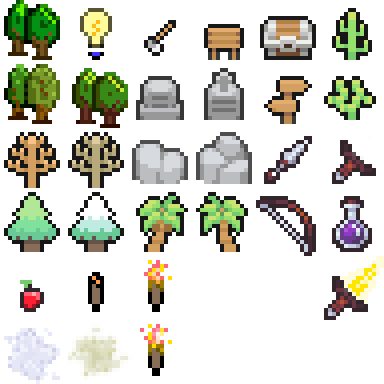
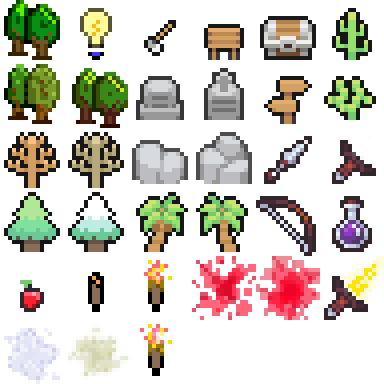
stains

Changed region(s): [[0.5, 0.6562, 0.8438, 0.8438]]

diff --git a/src/main/kotlin/world/Level.kt b/src/main/kotlin/world/Level.kt
@@ -22,6 +22,7 @@ import ui.modals.ContextMenu
 import ui.modals.ExamineModal
 import ui.panels.Console
 import util.*
+import world.stains.Stain
 import world.terrains.Terrain
 import kotlin.coroutines.coroutineContext
 
@@ -72,6 +73,7 @@ sealed class Level {
         doOverlap: (x: Int, y: Int, vis: Float, glyph: Glyph, edge: XY, light: LightColor) -> Unit,
         doOcclude: (x: Int, y: Int, edge: XY) -> Unit,
         doSurf: (x: Int, y: Int, vis: Float, light: LightColor, edge: XY) -> Unit,
+        doStain: (x: Int, y: Int, stain: Stain, light: LightColor) -> Unit,
         delta: Float
     ) {
         for (x in pov.x - Screen.renderTilesWide /2 until pov.x + Screen.renderTilesWide /2) {
@@ -80,13 +82,16 @@ sealed class Level {
                 val terrain = Terrain.get(getTerrain(x,y))
                 val glyph = terrain.glyph()
                 val holder = tileSet.tileHolders[glyph]
-                val light = if (vis == 1f) lightAt(x, y) else Screen.halfLight
                 if (vis > 0f) {
-                    thingsAt(x,y).forEach { it.onRender(delta) }
-                    actorAt(x,y)?.onRender(delta)
+                    val light = if (vis == 1f) lightAt(x, y) else Screen.halfLight
                     doTile(
                         x, y, vis, glyph, light
                     )
+                    if (vis == 1f) {
+                        thingsAt(x,y).forEach { it.onRender(delta) }
+                        actorAt(x,y)?.onRender(delta)
+                        stainAt(x,y)?.also { doStain(x, y, it, light) }
+                    }
                     // Ground overlaps
                     if (holder is OverlapTile) {
                         CARDINALS.forEach { edge ->
@@ -246,6 +251,8 @@ sealed class Level {
 
     fun thingsAt(x: Int, y: Int): MutableList<Thing> = chunkAt(x,y)?.thingsAt(x,y) ?: noThing
 
+    fun stainAt(x: Int, y: Int): Stain? = chunkAt(x,y)?.stainAt(x,y)
+
     fun cellContainerAt(x: Int, y: Int) = chunkAt(x,y)?.cellContainerAt(x,y) ?: throw RuntimeException("no cell container for $x $y")
 
     fun onAddThing(x: Int, y: Int, thing: Thing) = chunkAt(x,y)?.onAddThing(x, y, thing)
@@ -277,6 +284,8 @@ sealed class Level {
     fun isOpaqueAt(x: Int, y: Int) = chunkAt(x,y)?.isOpaqueAt(x,y) ?: true
 
     fun addSpark(spark: Spark) = chunkAt(spark.xy.x, spark.xy.y)?.addSpark(spark)
+
+    fun addStain(stain: Stain, x: Int, y: Int) = chunkAt(x,y)?.addStain(stain, x, y)
 
     fun onRender(delta: Float) {
         if (dirtyLights.isNotEmpty()) {

diff --git a/src/main/kotlin/render/Screen.kt b/src/main/kotlin/render/Screen.kt
@@ -23,6 +23,7 @@ import ui.panels.ActorPanel
 import util.*
 import world.LevelKeeper
 import world.WorldLevel
+import world.stains.Stain
 import java.lang.Double.max
 import java.lang.Double.min
 import kotlin.math.abs
@@ -35,7 +36,7 @@ object Screen : KtxScreen {
     var worldZoom = 1.3
     var cameraSlack = 0.3
     var cameraMenuShift = 0.8
-    private const val CAMERA_MAX_JERK = 0.4
+    private const val CAMERA_MAX_JERK = 0.7
     private const val ZOOM_SPEED = 4.0
     private const val MAX_RENDER_WIDTH = 150
     private const val MAX_RENDER_HEIGHT = 120
@@ -202,6 +203,14 @@ object Screen : KtxScreen {
         )
     }
 
+    private val renderStain: (Int, Int, Stain, LightColor)->Unit = { tx, ty, stain, light ->
+        thingBatch.addTileQuad(
+            tx, ty,
+            thingBatch.getTextureIndex(stain.glyph(), App.level, tx, ty), 1f, light,
+            offsetX = stain.offsetX(), offsetY = stain.offsetY(), scale = stain.scale().toDouble(), alpha = stain.alpha()
+        )
+    }
+
     private val renderThing: (Int, Int, Float, Glyph)->Unit = { tx, ty, vis, glyph ->
         val lx = tx - pov.x + renderTilesWide
         val ly = ty - pov.y + renderTilesHigh
@@ -228,7 +237,8 @@ object Screen : KtxScreen {
         }
     }
 
-    private val renderSpark: (Int, Int, Glyph, LightColor, Float, Float, Float, Float)->Unit = { tx, ty, glyph, light, offsetX, offsetY, scale, alpha ->
+    private val renderSpark: (Int, Int, Glyph, LightColor, Float, Float, Float, Float)->Unit =
+        { tx, ty, glyph, light, offsetX, offsetY, scale, alpha ->
         worldBatches.firstOrNull { it.tileSet.hasGlyph(glyph) }?.also { batch ->
             batch.addTileQuad(
                 tx, ty,
@@ -533,6 +543,7 @@ object Screen : KtxScreen {
             doOverlap = renderOverlap,
             doOcclude = renderOcclude,
             doSurf = renderSurf,
+            doStain = renderStain,
             delta = delta
         )
         if (terrainBatch.vertexCount < 1) { log.debug("Davey!  terrainBatch had 0 vertices") }

diff --git a/src/main/kotlin/world/CellContainer.kt b/src/main/kotlin/world/CellContainer.kt
@@ -7,7 +7,9 @@ import things.Temporal
 import things.Thing
 import things.ThingHolder
 import util.XY
+import util.hasOneWhere
 import util.log
+import world.stains.Stain
 
 @Serializable
 class CellContainer : ThingHolder {
@@ -15,6 +17,7 @@ class CellContainer : ThingHolder {
     @Transient override var level: Level? = null
     val xy = XY(0,0)
     val contents = mutableListOf<Thing>()
+    val stains = mutableListOf<Stain>()
 
     override fun xy() = xy
     override fun contents() = contents
@@ -26,6 +29,10 @@ class CellContainer : ThingHolder {
         contents.forEach { thing ->
             thing.onRestore(this)
             if (thing is Temporal) level.linkTemporal(thing)
+        }
+        stains.forEach { stain ->
+            stain.holder = this
+            level.linkTemporal(stain)
         }
     }
 
@@ -45,5 +52,21 @@ class CellContainer : ThingHolder {
         contents.remove(thing)
         level?.onRemoveThing(xy.x, xy.y, thing)
     }
+
+    fun addStain(stain: Stain) {
+        stains.firstOrNull { it.stackType() == stain.stackType() }?.also { oldStain ->
+            oldStain.stackWith(stain)
+        } ?: run {
+            stain.holder = this
+            stains.add(stain)
+            level?.linkTemporal(stain)
+        }
+    }
+
+    fun expireStain(stain: Stain) {
+        stains.remove(stain)
+    }
+
+    fun topStain() = if (stains.isNotEmpty()) stains.last() else null
 
 }

diff --git a/src/main/kotlin/actors/Actor.kt b/src/main/kotlin/actors/Actor.kt
@@ -13,6 +13,7 @@ import things.*
 import util.*
 import world.Entity
 import world.Level
+import world.stains.Blood
 import java.lang.Integer.min
 
 @Serializable
@@ -42,6 +43,8 @@ sealed class Actor : Entity, ThingHolder, LightSource, Temporal {
 
     open fun speed() = 1f
     open fun visualRange() = 22f
+
+    open fun bleedChance() = 0.6f
 
     override fun level() = level
     override fun xy() = xy
@@ -76,7 +79,14 @@ sealed class Actor : Entity, ThingHolder, LightSource, Temporal {
 
     open fun statusGlyph(): Glyph? = null
 
-    open fun receiveAttack(attacker: Actor) { }
+    open fun receiveAttack(attacker: Actor) {
+        if (Dice.chance(bleedChance())) {
+            level?.addStain(Blood(), xy.x, xy.y)
+            if (Dice.chance(0.4f)) {
+                level?.addStain(Blood(), xy.x - 1 + Dice.zeroTo(2), xy.y - 1 + Dice.zeroTo(2))
+            }
+        }
+    }
 
     // What will I do right now?
     fun nextAction(): Action? = if (queuedActions.isNotEmpty()) {
@@ -129,6 +139,7 @@ sealed class Actor : Entity, ThingHolder, LightSource, Temporal {
 
     fun animOffsetX() = animation?.offsetX() ?: 0f
     fun animOffsetY() = animation?.offsetY() ?: 0f
+
     override fun onRender(delta: Float) {
         animation?.also { if (it.done) animation = null else it.onRender(delta) }
     }

diff --git a/src/main/kotlin/world/stains/Stain.kt b/src/main/kotlin/world/stains/Stain.kt
@@ -1,0 +1,50 @@
+package world.stains
+
+import kotlinx.serialization.Serializable
+import kotlinx.serialization.Transient
+import render.tilesets.Glyph
+import things.Temporal
+import world.CellContainer
+
+@Serializable
+sealed class Stain : Temporal {
+
+    enum class Type { BLOOD }
+
+    @Transient var holder: CellContainer? = null
+    private var birthTime: Double = App.time
+    protected var sizeMod: Float = 0f
+    protected var alpha: Float = 1f
+
+    abstract fun glyph(): Glyph
+    abstract fun name(): String
+    abstract fun lifespan(): Double
+    abstract fun stackType(): Type
+
+
+    open fun stackWith(stain: Stain) {
+        birthTime = App.time
+    }
+
+    override fun advanceTime(delta: Float) {
+        val elapsed = App.time - birthTime
+        val lifespan = lifespan()
+        val halfspan = (lifespan / 2f).toFloat()
+        if (elapsed > lifespan) {
+            expire()
+        } else if (elapsed > halfspan) {
+            alpha = 1f - (elapsed - halfspan).toFloat() / halfspan
+        } else {
+            alpha = 1f
+        }
+    }
+
+    fun expire() {
+        holder?.expireStain(this)
+    }
+
+    fun offsetX() = sizeMod
+    fun offsetY() = sizeMod
+    fun scale() = 1f - sizeMod
+    fun alpha() = alpha
+}

diff --git a/src/main/kotlin/world/Chunk.kt b/src/main/kotlin/world/Chunk.kt
@@ -13,6 +13,7 @@ import things.Thing
 import util.*
 import world.cartos.LevelCarto
 import world.cartos.WorldCarto
+import world.stains.Stain
 import world.terrains.Terrain
 import java.lang.Float.max
 import java.lang.Float.min
@@ -177,6 +178,10 @@ class Chunk(
     fun thingsAt(x: Int, y: Int) = if (boundsCheck(x, y)) {
         things[x - this.x][y - this.y].contents
     } else { noThing }
+
+    fun stainAt(x: Int, y: Int) = if (boundsCheck(x, y)) {
+        things[x - this.x][y - this.y].topStain()
+    } else null
 
     fun cellContainerAt(x: Int, y: Int) = if (boundsCheck(x, y)) {
         things[x - this.x][y - this.y]
@@ -384,11 +389,13 @@ class Chunk(
         doneSparks.forEach { sparks.remove(it) }
     }
 
-    fun addSpark(spark: Spark) {
-        sparks.add(spark)
-    }
+    fun addSpark(spark: Spark) { sparks.add(spark) }
 
     fun sparks() = sparks
+
+    fun addStain(stain: Stain, x: Int, y: Int) {
+        if (boundsCheck(x, y)) { things[x-this.x][y-this.y].addStain(stain) }
+    }
 
     private fun forEachCell(doThis: (Int,Int)->Unit) {
         for (x in 0 until width) {

diff --git a/src/main/kotlin/ui/panels/LeftButtons.kt b/src/main/kotlin/ui/panels/LeftButtons.kt
@@ -30,7 +30,7 @@ object LeftButtons : Panel() {
     private val iconSize = 36
     private val iconSizeHovered = 48
     private val slop = 18
-    private val wakeSlop = 60
+    private val wakeSlop = 70
     private var spacing = 0
 
     private var contraction = width
@@ -66,10 +66,10 @@ object LeftButtons : Panel() {
 
     override fun onResize(width: Int, height: Int) {
         super.onResize(width, height)
-        yPadding = (height / 4)
+        yPadding = (height / 6)
         this.x = xPadding + xMargin
         this.y = yPadding
-        this.height = height / 2
+        this.height = height / 3 * 2
         this.width = iconSize * 2
         this.spacing = (LeftButtons.height - iconSize * buttons.size) / (buttons.size - 1)
         this.contraction = this.width

diff --git a/src/main/kotlin/world/stains/Blood.kt b/src/main/kotlin/world/stains/Blood.kt
@@ -1,0 +1,18 @@
+package world.stains
+
+import kotlinx.serialization.Serializable
+import render.tilesets.Glyph
+import util.Dice
+
+@Serializable
+class Blood : Stain() {
+
+    override fun glyph() = Glyph.BLOODSTAIN
+    override fun name() = "blood"
+    override fun lifespan() = 50.0
+    override fun stackType() = Type.BLOOD
+
+    init {
+        sizeMod = Dice.float(-0.25f, 0.2f)
+    }
+}

diff --git a/src/main/kotlin/render/tilesets/ThingTileSet.kt b/src/main/kotlin/render/tilesets/ThingTileSet.kt
@@ -61,4 +61,8 @@ fun ThingTileSet() =
         })
         setTile(Glyph.SMOKE_PUFF, SimpleTile(this, 0, 5))
         setTile(Glyph.DUST_PUFF, SimpleTile(this, 1, 5))
+        setTile(Glyph.BLOODSTAIN, VariantsTile(this).apply {
+            add(0.5f, 3, 4)
+            add(0.5f, 4, 4)
+        })
     }

diff --git a/src/main/kotlin/actors/NPC.kt b/src/main/kotlin/actors/NPC.kt
@@ -95,6 +95,7 @@ sealed class NPC : Actor() {
     }
 
     override fun receiveAttack(attacker: Actor) {
+        super.receiveAttack(attacker)
         if (attacker is Player && !hostile) {
             hostile = true
             val m = becomeHostileMsg().random()

diff --git a/src/main/kotlin/render/tilesets/Glyph.kt b/src/main/kotlin/render/tilesets/Glyph.kt
@@ -65,5 +65,7 @@ enum class Glyph {
     ANGRY_THUNDARR,
     SPEECH_BUBBLE,
     POW_ICON,
-    HOSTILE_ICON
+    HOSTILE_ICON,
+
+    BLOODSTAIN
 }
